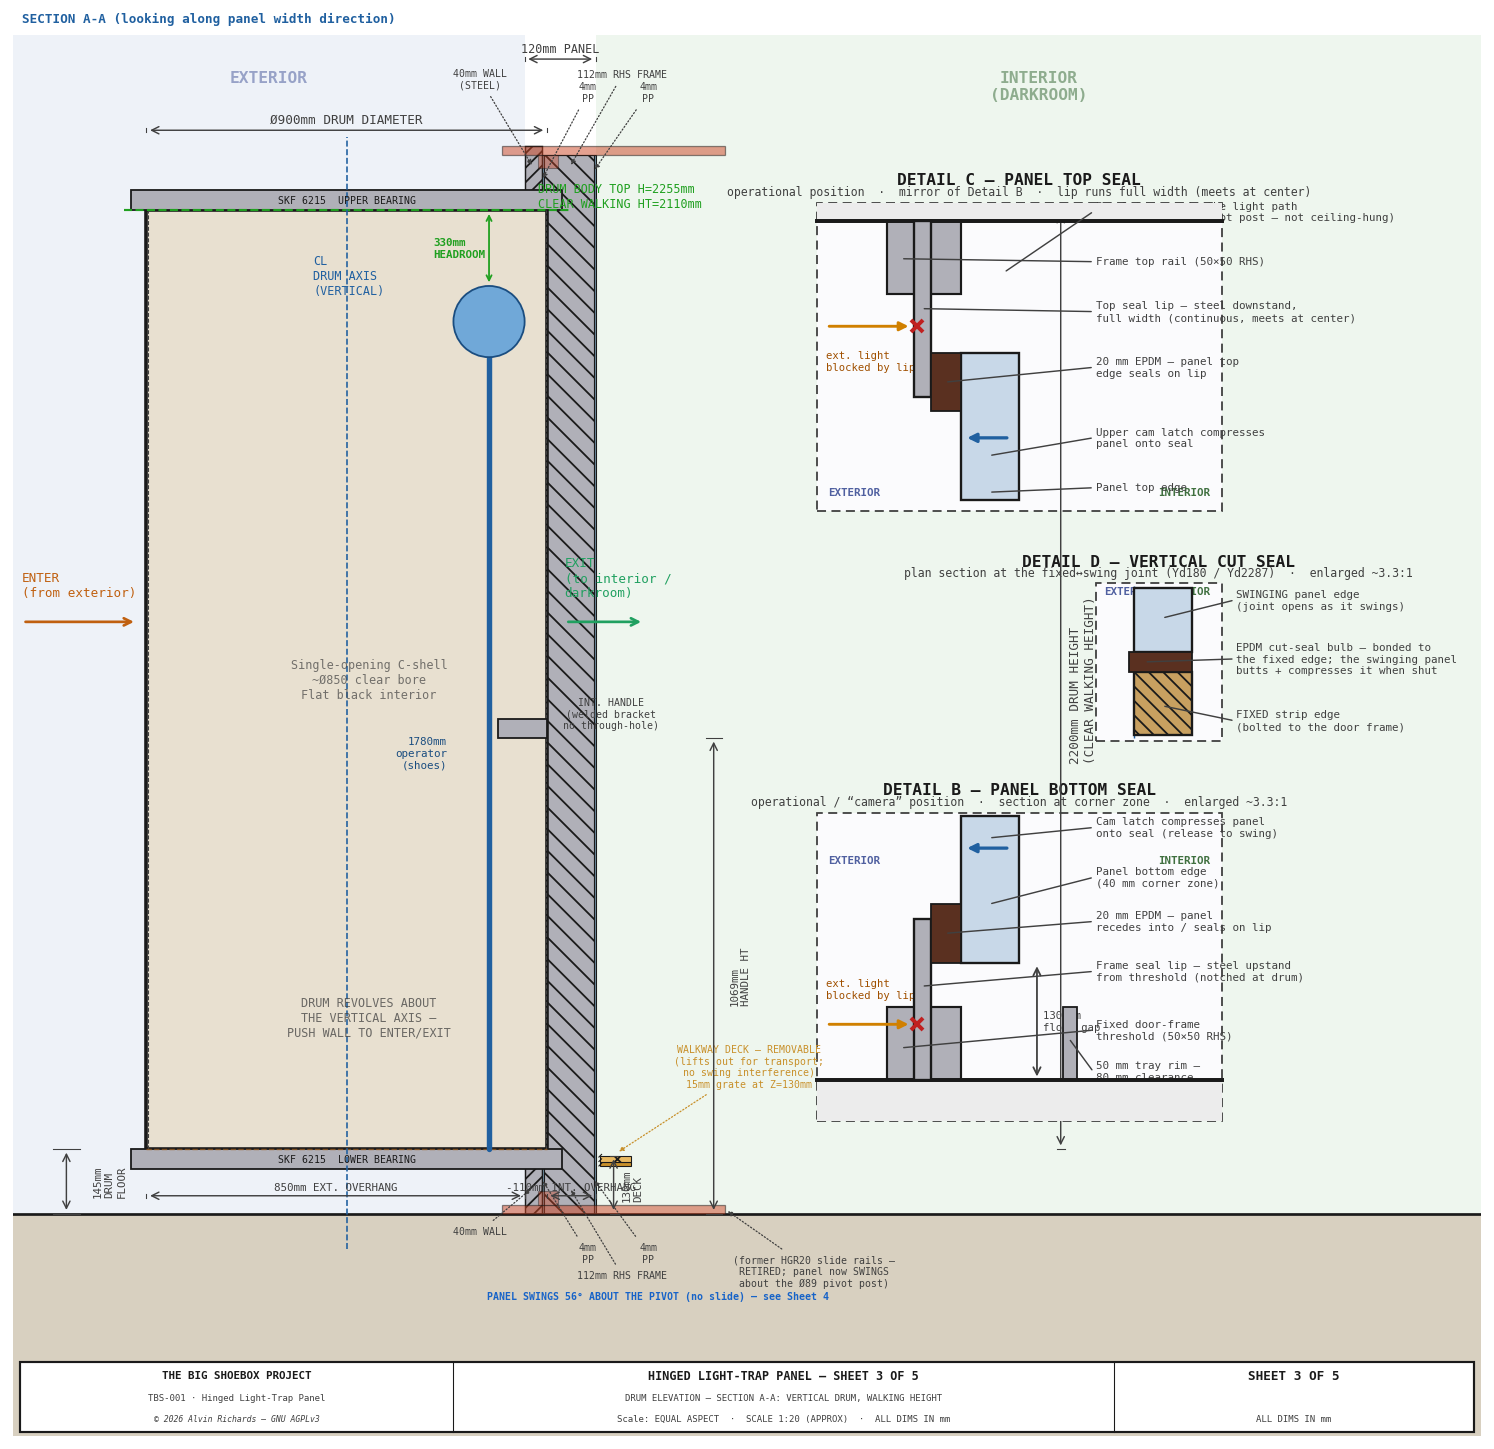
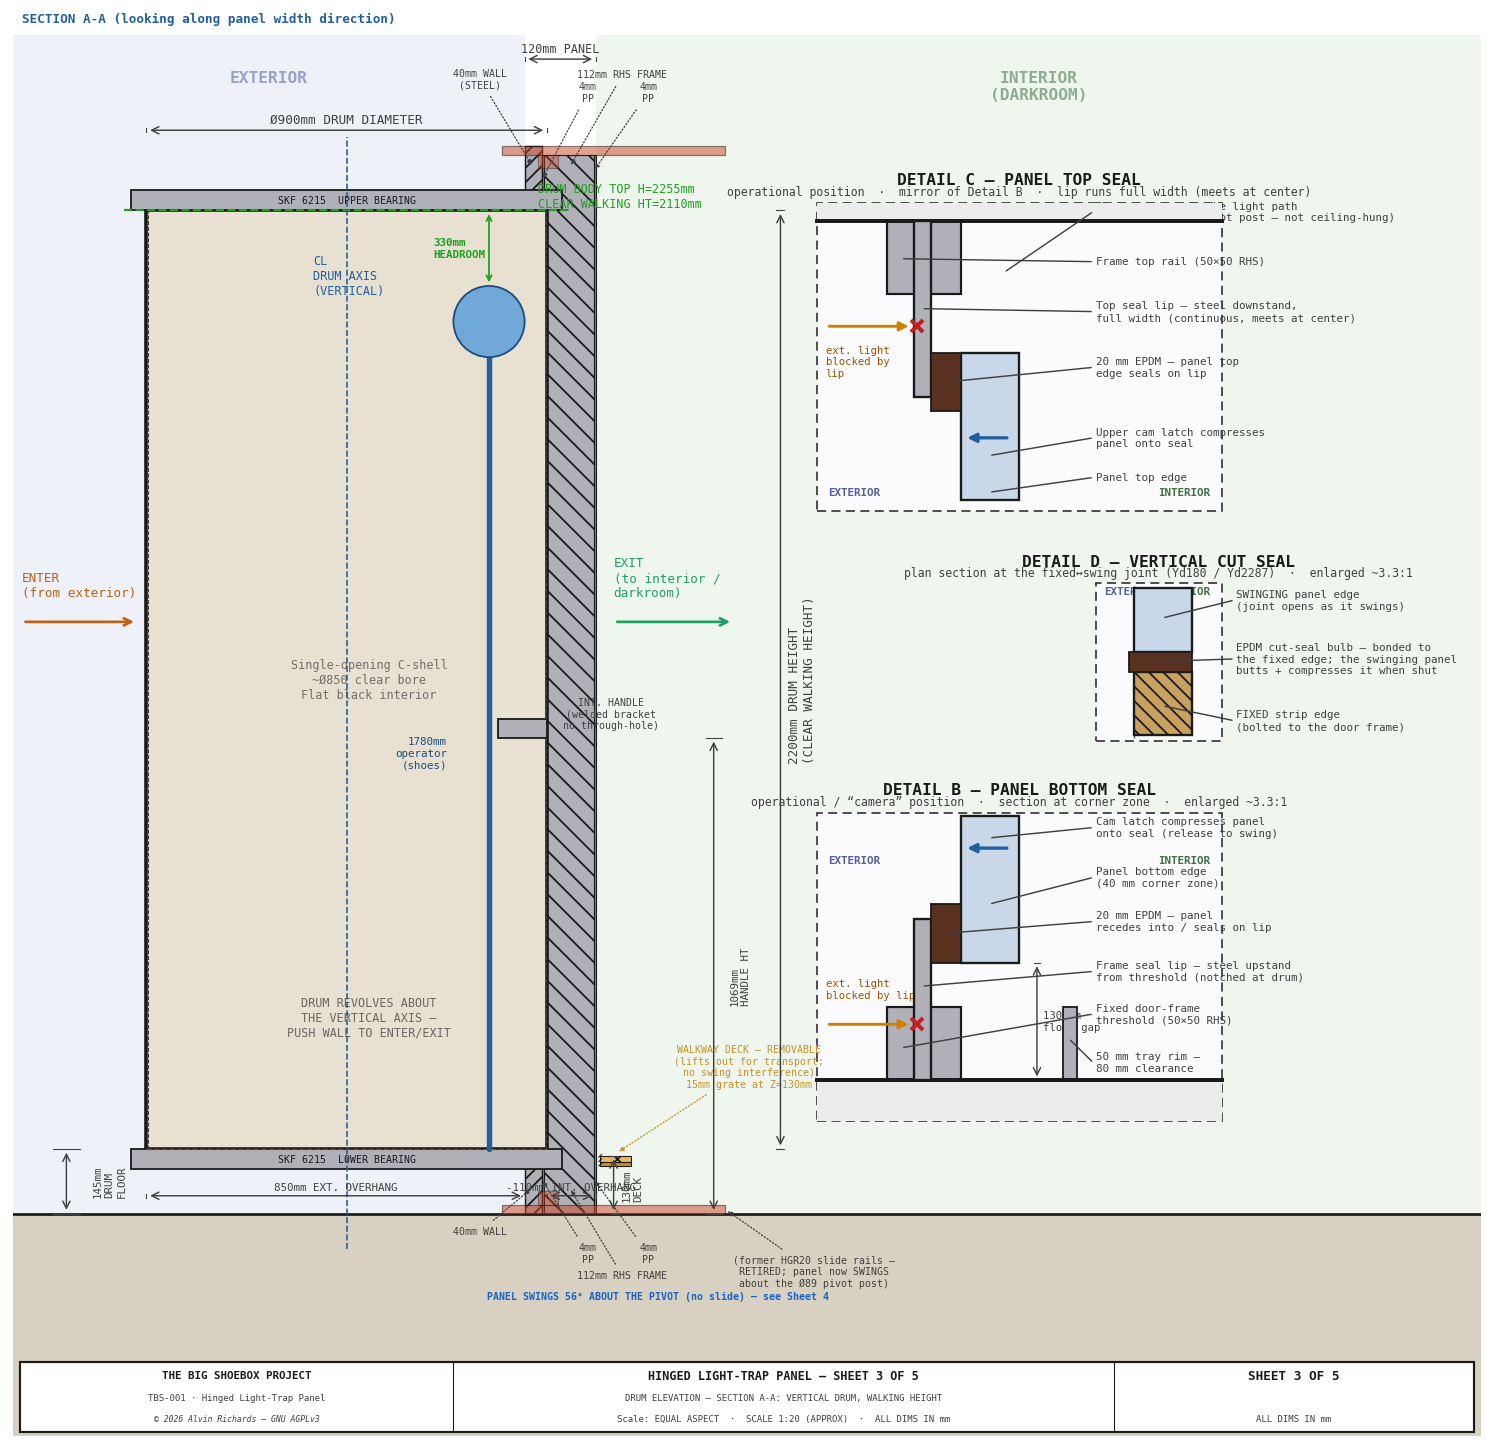
hingepanel sheet 3: convert the floor-gap dimension to draw_dim_v
Detail B's floor-gap dimension was hand-drawn (ax.annotate <-> arrow + ax.text) instead
of the standard helper. Replace with draw_dim_v (offset=22 reproduces the DX(56) label
position, perpendicular=True keeps the label horizontal, right=True interior side) — now
it gets the standard extension ticks too. The local _PFG/_TRIM import is kept (used by
the tray-rim clearance callout below).

diff --git a/src/generators/generate_hingepanel_diagram.py b/src/generators/generate_hingepanel_diagram.py
@@ -1092,11 +1092,11 @@ def sheet3():
     ax.text(X_LO + 20, EAR_Y + 500, "ENTER\n(from exterior)",
             ha="left", va="bottom", fontsize=7, color="#C06010", **FONT, zorder=15)
 
-    ax.annotate("", xy=(D_DEPTH_R + 220, EAR_Y + 450),
-                xytext=(D_DEPTH_R + 40, EAR_Y + 450),
+    ax.annotate("", xy=(D_DEPTH_R + 420, EAR_Y + 450),
+                xytext=(D_DEPTH_R + 150, EAR_Y + 450),
                 arrowprops=dict(arrowstyle="->", color="#20A060", lw=1.5,
                                 mutation_scale=10))
-    ax.text(D_DEPTH_R + 40, EAR_Y + 500, "EXIT\n(to interior /\ndarkroom)",
+    ax.text(D_DEPTH_R + 150, EAR_Y + 500, "EXIT\n(to interior /\ndarkroom)",
             ha="left", va="bottom", fontsize=7, color="#20A060", **FONT, zorder=15)
 
     ax.text(D_CX_DEPTH /2 - 150, H_FLOOR + DRUM_H * 0.2,
@@ -1105,7 +1105,7 @@ def sheet3():
             **FONT, alpha=0.75, zorder=15)
 
     # ── Dimension callouts ────────────────────────────────────────────────────
-    DIM_R = D_DEPTH_R + PAD_R * 0.55
+    DIM_R = D_DEPTH_R + PAD_R * 0.25
 
     # Drum height
     draw_dim_v(ax, DIM_R, H_DRUM_BOT, H_DRUM_TOP,
@@ -1188,11 +1188,9 @@ def sheet3():
                 arrowprops=dict(arrowstyle="-|>", color=C_CL, lw=1.8), zorder=25)
 
     # floor-gap dimension (interior side, clear lane)
-    ax.annotate("", xy=(DX(52), DY(0)), xytext=(DX(52), DY(80)),
-                arrowprops=dict(arrowstyle="<->", color=C_DIM, lw=1.0), zorder=25)
     from tbs_constants import PANEL_FLOOR_GAP as _PFG, PROC_TRAY_RIM as _TRIM
-    ax.text(DX(56), DY(40), f"{_PFG} mm\nfloor gap", fontsize=5.8, color=C_DIM,
-            ha="left", va="center", **FONT)
+    draw_dim_v(ax, DX(52), DY(0), DY(80), f"{_PFG} mm\nfloor gap",
+               offset=22, fs=5.8, right=True, perpendicular=True, color=C_DIM, font=FONT)
 
     # callout labels (right side, leaders pointing into the detail)
     def dlbl(target, ty, text):
@@ -1205,7 +1203,7 @@ def sheet3():
     dlbl((DX(20), DY(120)), DY(138), "Panel bottom edge\n(40 mm corner zone)")
     dlbl((DX(-10), DY(100)), DY(108), "20 mm EPDM — panel\nrecedes into / seals on lip")
     dlbl((DX(-26), DY(64)), DY(74), "Frame seal lip — steel upstand\nfrom threshold (notched at drum)")
-    dlbl((DX(-40), DY(22)), DY(34), "Fixed door-frame\nthreshold (50×50 RHS)")
+    dlbl((DX(-40), DY(22)), DY(45), "Fixed door-frame\nthreshold (50×50 RHS)")
     dlbl((DX(74), DY(28)), DY(12), f"{_TRIM} mm tray rim —\n{_PFG - _TRIM} mm clearance")
 
     # ══════════════════════════════════════════════════════════════════════════
